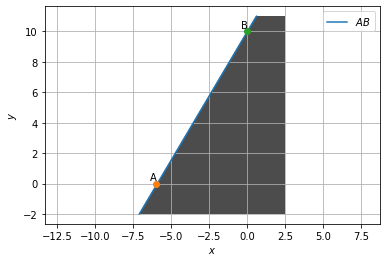
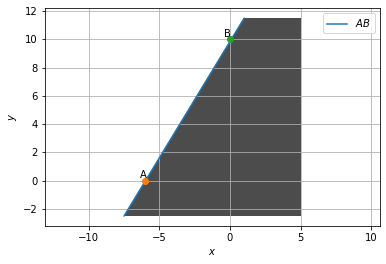
Add files via upload

diff --git a/assignment9.py b/assignment9.py
@@ -111,10 +111,10 @@ import numpy as np
 import subprocess
 import shlex
  
-A = np.array([-7.1,-2])
-B = np.array([0.6,11])
-C = np.array([2.5,-2])
-D = np.array([2.5,11])
+A = np.array([-7.5,-2.5])
+B = np.array([1,11.5])
+C = np.array([5,-2.5])
+D = np.array([5,11.5])
 points = np.array((A,C,D,B))
  
 x_AB = line_gen(A,B)
